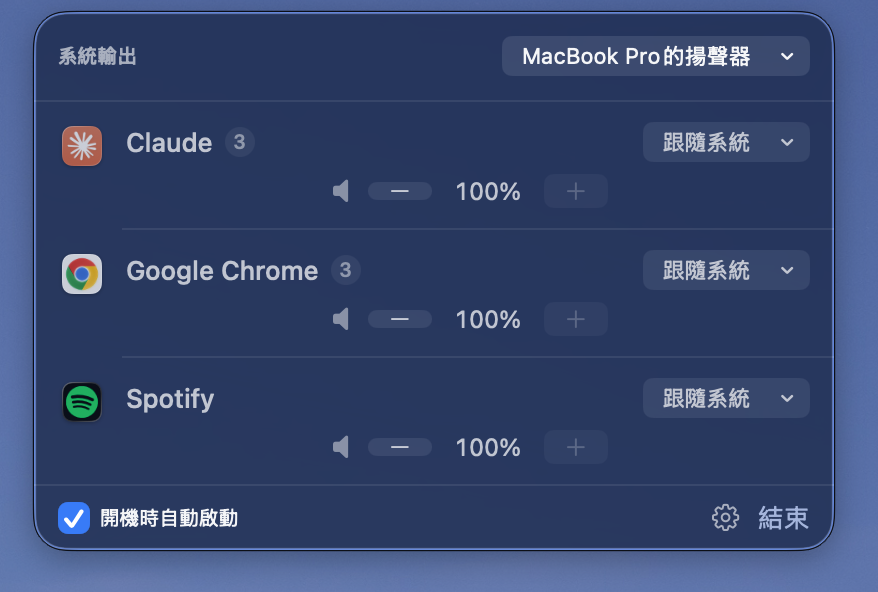
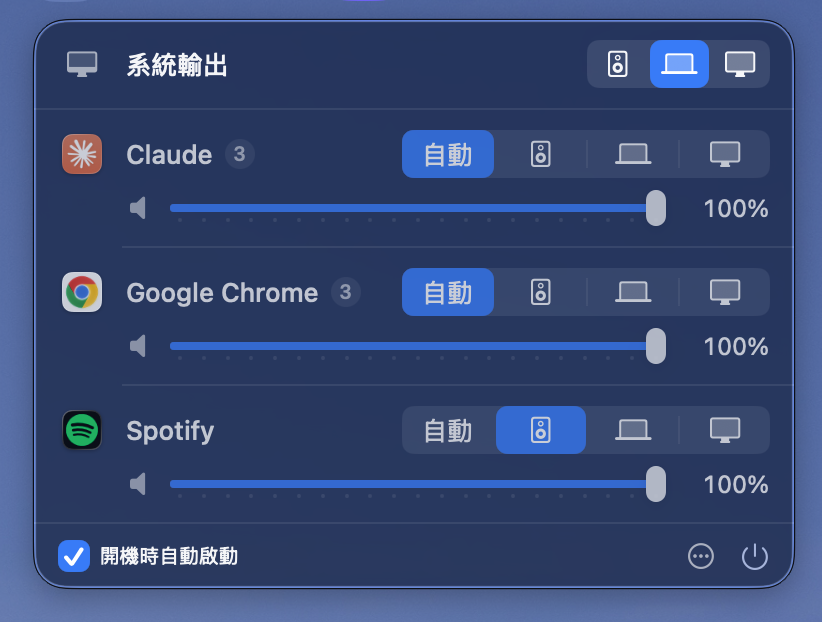
Update the screenshot and interface docs for the new controls
The old screenshot showed dropdowns, −/+ buttons and a gear — none of
which exist any more. The bullet list had drifted the same way.

diff --git a/README.md b/README.md
@@ -66,16 +66,19 @@ Click the menu bar icon:
 
 > The screenshot is in Traditional Chinese; the interface follows your system language and ships with English too.
 
-- **Output device**: the dropdown on the right of each row. "Follow system" means the app is left alone.
-- **Volume**: −/+ in 5% steps, capped at 100%. There is deliberately no gain boost — see [Why 100% is the ceiling](#why-100-is-the-ceiling).
+- **Output device**: a segmented control, one segment per device. "Auto" leaves the app alone and lets it follow the system output. Segments show a device icon chosen by transport type — hover for the name.
+- **Volume**: a slider in 20 steps of 5%, capped at 100%. There is deliberately no gain boost — see [Why 100% is the ceiling](#why-100-is-the-ceiling).
 - **Green dot**: the app is currently producing audio.
 - **Number badge**: how many audio-producing processes the app has (see below).
 - **"Not running" badge**: the app has a saved route but is not currently running. The setting is kept and reapplied when it comes back.
-- **Red triangle / spinner**: the route failed (hover for the message), or its engine is still being set up.
-- **Gear, bottom right**: show/hide system processes.
+- **Red triangle / info circle / spinner**: the route failed (hover for the message); its device is offline and audio is temporarily following the system; or its engine is still being set up.
+- **Right-click a row** for "Reset this app" and, for apps that are not running, "Forget this setting".
+- **Ellipsis, bottom right**: show/hide system processes.
 - **"Launch at login" checkbox** at the bottom: registers the app as a login item via `SMAppService`.
 
-The "System output" row at the top is the global default device. It only affects apps you have not configured individually.
+The system output row at the top uses the same layout as the app rows, because it is the same kind of thing — a playback target with a set of output choices.
+
+It is the global default device, and only affects apps you have not configured individually.
 
 ## Playback source grouping
 
